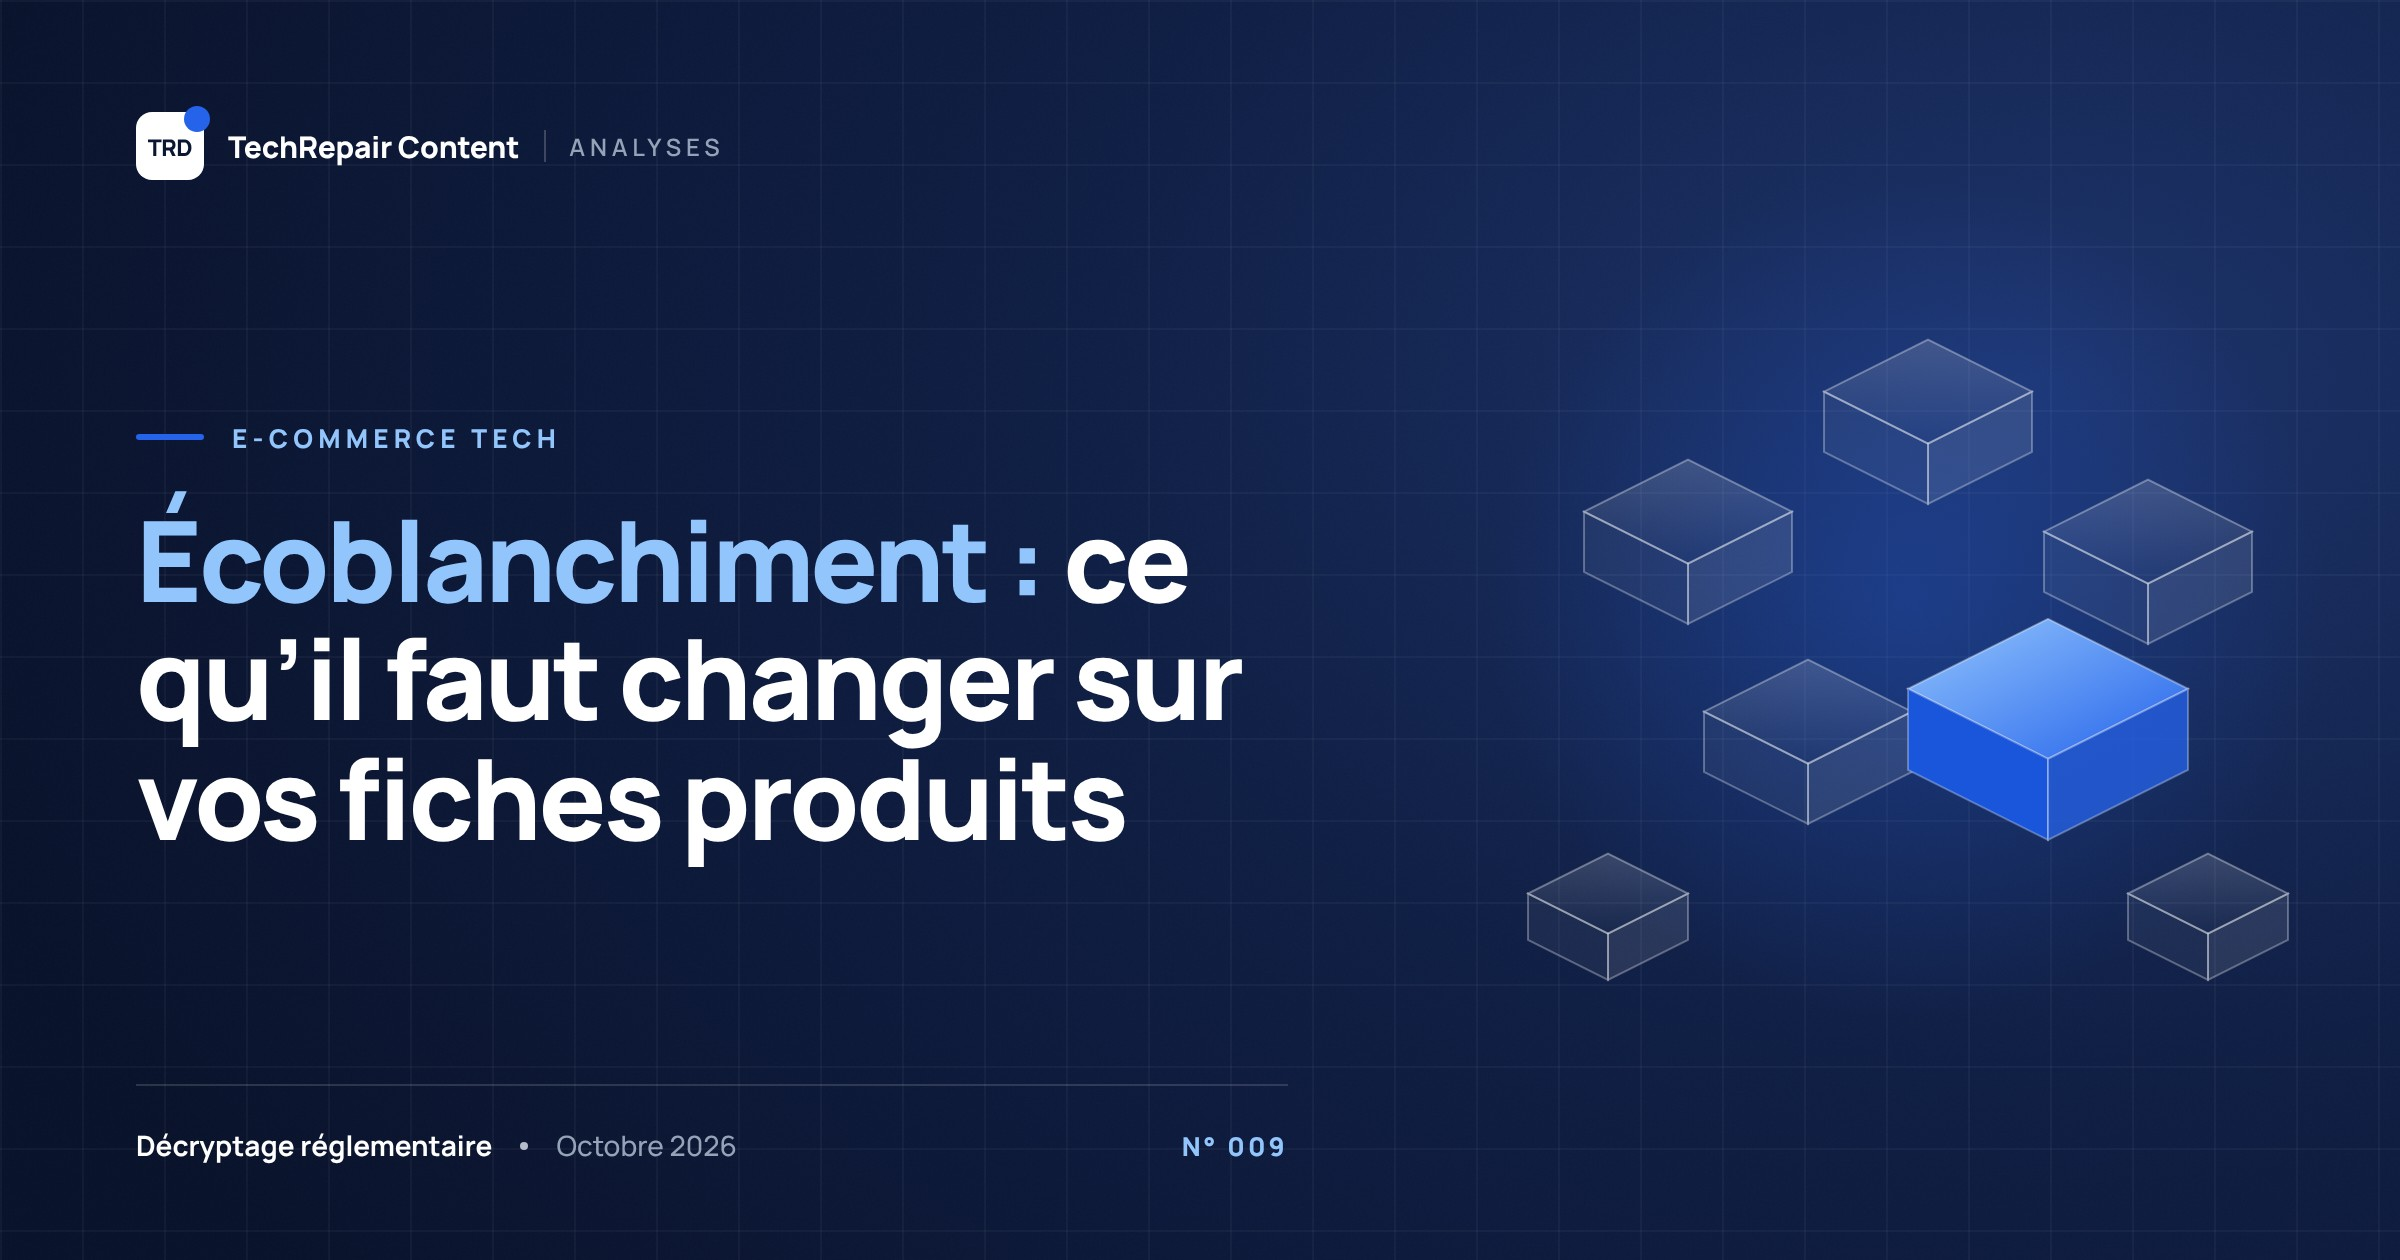
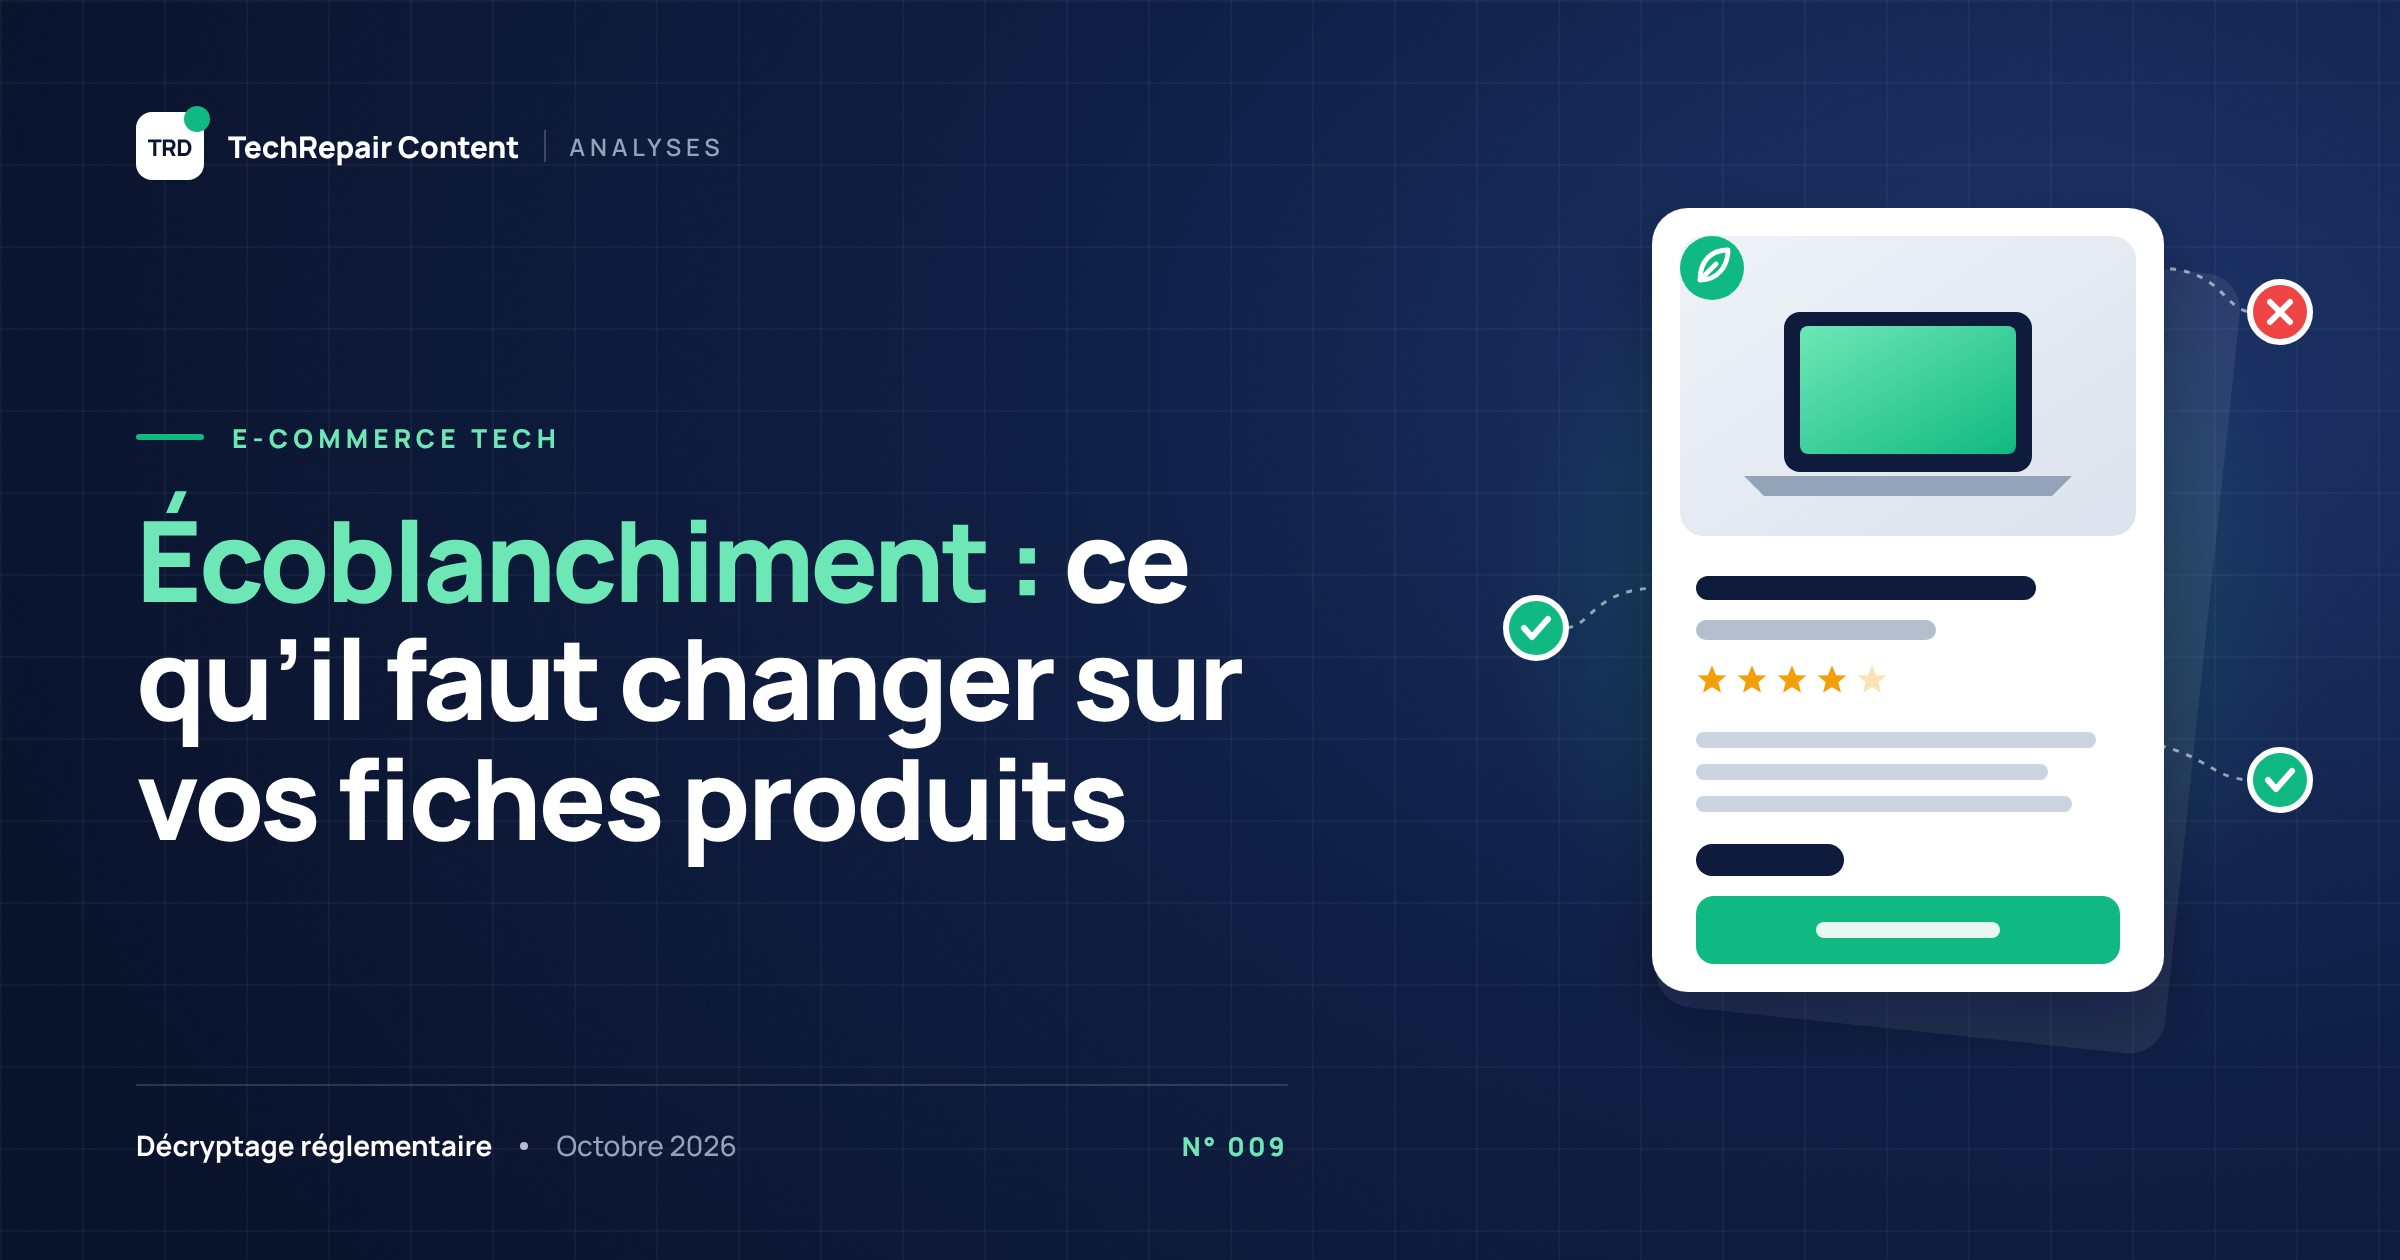
Couvertures : 4 couleurs du site, motifs liés au sujet (fiche produit, document, tableau de bord, calendrier) (#12)
Claude-Session: https://claude.ai/code/session_01HQs5be2KDUgEJapftMWrMs

diff --git a/_outils/couverture.js b/_outils/couverture.js
@@ -1,5 +1,5 @@
 // couverture.js — Couverture éditoriale haute définition (rendu HTML/SVG par Chromium).
-// Usage : node _outils/couverture.js <slug> "<titre>" <categorie> "<sur-titre>" <numero> [orange|bleu] [scission|nuit|accent|papier]
+// Usage : node _outils/couverture.js <slug> "<titre>" <categorie> "<sur-titre>" <numero> [bleu|orange|vert|violet|auto] [scission|nuit|accent|papier] [--motif=fiche-produit|document|tableau-de-bord|calendrier]
 // Produit articles/<slug>-cover.jpg en 2400x1260 (affichage 1200x630, net sur écrans Retina).
 const fs = require('fs');
 const path = require('path');
@@ -7,8 +7,12 @@ const { chromium } = require('playwright');
 
 const RACINE = path.resolve(__dirname, '..');
 const POL = path.join(__dirname, 'polices');
-const [slug, titre, cat, surTitre = 'Analyse', numero = '', accentArgBrut] = process.argv.slice(2);
-const accentArg = ['orange', 'bleu'].includes(accentArgBrut) ? accentArgBrut : undefined;
+const ARGS = process.argv.slice(2).filter(a => !a.startsWith('--'));
+const OPTS = Object.fromEntries(process.argv.slice(2).filter(a => a.startsWith('--')).map(a => a.slice(2).split('=')));
+const [slug, titre, cat, surTitre = 'Analyse', numero = '', accentArgBrut, styleArg] = ARGS;
+const COULEURS = ['bleu', 'orange', 'vert', 'violet'];
+const accentArg = COULEURS.includes(accentArgBrut) ? accentArgBrut : undefined;
+const MOTIF = OPTS.motif || '';
 if (!slug || !titre || !cat) {
   console.error('Usage : node _outils/couverture.js <slug> "<titre>" <categorie> "<sur-titre>" <numero> [orange|bleu]');
   process.exit(1);
@@ -16,13 +20,17 @@ if (!slug || !titre || !cat) {
 
 const LIBELLES = { seo: 'SEO & visibilité', saas: 'SaaS B2B', ecommerce: 'E-commerce tech',
   cyber: 'Cybersécurité', fintech: 'Fintech', rh: 'RH tech' };
-// Accent par défaut : orange pour cyber, e-commerce, RH ; bleu pour SEO, SaaS, fintech.
-const PAR_DEFAUT = { cyber: 'orange', ecommerce: 'orange', rh: 'orange', seo: 'bleu', saas: 'bleu', fintech: 'bleu' };
+// Couleurs d'accent : celles du site techrepaircontent.com (bleu, orange, vert, violet).
+// Sans choix explicite, la couleur tourne avec le numéro, décalée à chaque cycle de styles
+// pour ne jamais répéter la même combinaison style + couleur deux fois de suite.
 const ACCENTS = {
-  orange: { a: '#F97316', b: '#FDBA74', c: '#C2410C', glow: 'rgba(249,115,22,.55)' },
-  bleu:   { a: '#2563EB', b: '#93C5FD', c: '#1A56DB', glow: 'rgba(37,99,235,.6)' },
+  bleu:   { a: '#2563EB', b: '#93C5FD', c: '#1A56DB' },
+  orange: { a: '#F97316', b: '#FDBA74', c: '#C2410C' },
+  vert:   { a: '#10B981', b: '#6EE7B7', c: '#047857' },
+  violet: { a: '#7C3AED', b: '#C4B5FD', c: '#6D28D9' },
 };
-const AC = ACCENTS[accentArg || PAR_DEFAUT[cat] || 'bleu'];
+const N = parseInt(numero, 10) || 0;
+const AC = ACCENTS[accentArg || COULEURS[(N + Math.floor(N / 4)) % 4]];
 const MOIS = ['janvier','février','mars','avril','mai','juin','juillet','août','septembre','octobre','novembre','décembre'];
 const d = new Date();
 const dateTxt = `${MOIS[d.getMonth()][0].toUpperCase()}${MOIS[d.getMonth()].slice(1)} ${d.getFullYear()}`;
@@ -37,7 +45,7 @@ const rnd = () => ((graine = (graine * 1664525 + 1013904223) >>> 0) / 4294967296
 const W = 'rgba(255,255,255,', CX = 246, CY = 300;
 // Styles de couverture : ils tournent d'un article à l'autre (numéro), ou se forcent en 7e argument.
 const STYLES = ['scission', 'nuit', 'accent', 'papier'];
-const STYLE = process.argv[8] || STYLES[(parseInt(numero, 10) || 0) % STYLES.length];
+const STYLE = STYLES.includes(styleArg) ? styleArg : STYLES[N % STYLES.length];
 let INK = W, IL = AC, FOND = '#0B1633';
 if (STYLE === 'papier') { INK = 'rgba(11,22,51,'; FOND = '#F6F4EF'; }
 if (STYLE === 'accent') { IL = { a: '#FFFFFF', b: '#FFFFFF', c: '#0B1633', glow: 'rgba(255,255,255,.4)' }; FOND = AC.c; }
@@ -45,10 +53,64 @@ function illustration() {
   const defs = `
     <radialGradient id="halo" cx="50%" cy="50%" r="50%"><stop offset="0" stop-color="${IL.a}" stop-opacity=".55"/><stop offset="1" stop-color="${IL.a}" stop-opacity="0"/></radialGradient>
     <linearGradient id="acc" x1="0" y1="0" x2="1" y2="1"><stop offset="0" stop-color="${IL.b}"/><stop offset="1" stop-color="${IL.a}"/></linearGradient>
+    <linearGradient id="acc2" x1="0" y1="0" x2="1" y2="1"><stop offset="0" stop-color="${AC.b}"/><stop offset="1" stop-color="${AC.a}"/></linearGradient>
     <linearGradient id="verre" x1="0" y1="0" x2="0" y2="1"><stop offset="0" stop-color="#fff" stop-opacity=".16"/><stop offset="1" stop-color="#fff" stop-opacity=".03"/></linearGradient>
     <filter id="flou" x="-50%" y="-50%" width="200%" height="200%"><feGaussianBlur stdDeviation="6"/></filter>`;
   let g = `<circle cx="${CX}" cy="${CY}" r="210" fill="url(#halo)" opacity=".55"/>`;
-  if (cat === 'cyber') {
+  const ombre = `<filter id="ombre" x="-30%" y="-30%" width="160%" height="160%"><feDropShadow dx="0" dy="14" stdDeviation="16" flood-color="#020617" flood-opacity=".35"/></filter>`;
+  const barre = (x, y, w, h, c, o = 1) => `<rect x="${x}" y="${y}" width="${w}" height="${h}" rx="${h / 2}" fill="${c}" fill-opacity="${o}"/>`;
+  const pastille = (x, y, ok) => `<g><circle cx="${x}" cy="${y}" r="15" fill="${ok ? '#10B981' : '#EF4444'}" stroke="#fff" stroke-width="3"/>${ok
+    ? `<path d="M ${x - 6} ${y} l 4 4.5 l 8 -9" fill="none" stroke="#fff" stroke-width="3" stroke-linecap="round" stroke-linejoin="round"/>`
+    : `<path d="M ${x - 5} ${y - 5} l 10 10 M ${x + 5} ${y - 5} l -10 10" stroke="#fff" stroke-width="3" stroke-linecap="round"/>`}</g>`;
+  if (MOTIF === 'fiche-produit') {
+    // Fiche produit stylisée, annotée comme un audit : ce qui est vérifiable (✓) / ce qui ne l'est pas (✕).
+    const x = CX - 128, y = CY - 196, w = 256, h = 392;
+    g += `<defs>${ombre}<linearGradient id="visuel" x1="0" y1="0" x2="1" y2="1"><stop offset="0" stop-color="#EEF2F8"/><stop offset="1" stop-color="#DCE3EE"/></linearGradient></defs>
+      <rect x="${x + 22}" y="${y + 18}" width="${w}" height="${h}" rx="18" fill="#fff" opacity=".08" transform="rotate(6 ${CX} ${CY})"/>
+      <g filter="url(#ombre)"><rect x="${x}" y="${y}" width="${w}" height="${h}" rx="18" fill="#fff"/></g>
+      <rect x="${x + 14}" y="${y + 14}" width="${w - 28}" height="150" rx="12" fill="url(#visuel)"/>
+      <rect x="${CX - 62}" y="${y + 52}" width="124" height="80" rx="8" fill="#0F1B3D"/><rect x="${CX - 54}" y="${y + 59}" width="108" height="64" rx="4" fill="url(#acc2)"/>
+      <path d="M ${CX - 82} ${y + 134} h 164 l -10 10 h -144 z" fill="#94A3B8"/>
+      <g transform="translate(${x + 30} ${y + 30})"><circle r="16" fill="${AC.a}"/><path d="M -6 6 C -6 -4 0 -9 8 -9 C 8 -1 3 6 -6 6 Z M -6 6 L 2 -2" fill="none" stroke="#fff" stroke-width="2.4" stroke-linecap="round" stroke-linejoin="round"/></g>
+      ${barre(x + 22, y + 184, 170, 12, '#0F1B3D')}${barre(x + 22, y + 206, 120, 10, '#94A3B8', .7)}
+      <g fill="#F59E0B">${[0, 1, 2, 3, 4].map(i => `<path transform="translate(${x + 30 + i * 20} ${y + 236}) scale(.8)" d="M0,-9 L2.6,-3 L9,-2.8 L4,1.4 L5.6,8 L0,4.4 L-5.6,8 L-4,1.4 L-9,-2.8 L-2.6,-3 Z" opacity="${i < 4 ? 1 : .3}"/>`).join('')}</g>
+      ${barre(x + 22, y + 262, 200, 8, '#CBD5E1')}${barre(x + 22, y + 278, 176, 8, '#CBD5E1')}${barre(x + 22, y + 294, 188, 8, '#CBD5E1')}
+      ${barre(x + 22, y + 318, 74, 16, '#0F1B3D')}
+      <rect x="${x + 22}" y="${y + 344}" width="${w - 44}" height="34" rx="9" fill="${AC.a}"/>${barre(CX - 46, y + 357, 92, 8, '#fff', .9)}
+      <path d="M ${x + w - 4} ${y + 30} C ${x + w + 30} ${y + 30} ${x + w + 30} ${y + 52} ${x + w + 44} ${y + 52}" fill="none" stroke="${INK}.55)" stroke-width="1.5" stroke-dasharray="3 4"/>${pastille(x + w + 58, y + 52, false)}
+      <path d="M ${x + w - 30} ${y + 266} C ${x + w + 20} ${y + 266} ${x + w + 20} ${y + 286} ${x + w + 44} ${y + 286}" fill="none" stroke="${INK}.55)" stroke-width="1.5" stroke-dasharray="3 4"/>${pastille(x + w + 58, y + 286, true)}
+      <path d="M ${x + 4} ${y + 190} C ${x - 30} ${y + 190} ${x - 30} ${y + 210} ${x - 44} ${y + 210}" fill="none" stroke="${INK}.55)" stroke-width="1.5" stroke-dasharray="3 4"/>${pastille(x - 58, y + 210, true)}`;
+  } else if (MOTIF === 'document') {
+    // Texte réglementaire : pages empilées, articles surlignés, tampon.
+    const x = CX - 120, y = CY - 180, w = 240, h = 340;
+    g += `<defs>${ombre}</defs>
+      <rect x="${x + 26}" y="${y - 14}" width="${w}" height="${h}" rx="10" fill="#fff" opacity=".12" transform="rotate(5 ${CX} ${CY})"/>
+      <rect x="${x + 12}" y="${y - 6}" width="${w}" height="${h}" rx="10" fill="#fff" opacity=".25" transform="rotate(2 ${CX} ${CY})"/>
+      <g filter="url(#ombre)"><rect x="${x}" y="${y}" width="${w}" height="${h}" rx="10" fill="#fff"/></g>
+      ${barre(x + 28, y + 34, 120, 12, '#0F1B3D')}${barre(x + 28, y + 56, 80, 8, '#94A3B8')}
+      ${[0, 1, 2, 3, 4, 5, 6, 7, 8, 9].map(i => { const yy = y + 92 + i * 20; const hl = i === 2 || i === 3 || i === 7;
+        return (hl ? `<rect x="${x + 22}" y="${yy - 7}" width="${w - 44}" height="16" rx="4" fill="${AC.b}" fill-opacity=".55"/>` : '') + barre(x + 28, yy - 3, (i % 3 === 2 ? 140 : 184), 7, hl ? '#0F1B3D' : '#CBD5E1'); }).join('')}
+      <g transform="translate(${x + w - 34} ${y + h - 40}) rotate(-14)"><circle r="40" fill="none" stroke="${AC.a}" stroke-width="4"/><circle r="30" fill="none" stroke="${AC.a}" stroke-width="1.5"/><path d="M -14 0 l 9 9 l 19 -20" fill="none" stroke="${AC.a}" stroke-width="5" stroke-linecap="round" stroke-linejoin="round"/></g>`;
+  } else if (MOTIF === 'tableau-de-bord') {
+    const x = CX - 150, y = CY - 150, w = 300, h = 300;
+    let bars = '';
+    for (let i = 0; i < 7; i++) { const hh = 30 + rnd() * 90; bars += `<rect x="${x + 30 + i * 36}" y="${y + 250 - hh}" width="22" height="${hh}" rx="4" fill="${i === 5 ? AC.a : '#CBD5E1'}"/>`; }
+    g += `<defs>${ombre}</defs><g filter="url(#ombre)"><rect x="${x}" y="${y}" width="${w}" height="${h}" rx="16" fill="#fff"/></g>
+      ${barre(x + 24, y + 26, 90, 10, '#0F1B3D')}
+      <rect x="${x + 24}" y="${y + 52}" width="76" height="58" rx="10" fill="#F1F5F9"/>${barre(x + 34, y + 66, 40, 14, AC.a)}${barre(x + 34, y + 90, 50, 7, '#94A3B8')}
+      <rect x="${x + 112}" y="${y + 52}" width="76" height="58" rx="10" fill="#F1F5F9"/>${barre(x + 122, y + 66, 46, 14, '#0F1B3D')}${barre(x + 122, y + 90, 40, 7, '#94A3B8')}
+      <rect x="${x + 200}" y="${y + 52}" width="76" height="58" rx="10" fill="#F1F5F9"/>${barre(x + 210, y + 66, 34, 14, '#10B981')}${barre(x + 210, y + 90, 48, 7, '#94A3B8')}
+      ${bars}<line x1="${x + 24}" y1="${y + 252}" x2="${x + w - 24}" y2="${y + 252}" stroke="#E2E8F0"/>`;
+  } else if (MOTIF === 'calendrier') {
+    const x = CX - 140, y = CY - 140, w = 280, h = 290;
+    let cases = '';
+    for (let r = 0; r < 5; r++) for (let c = 0; c < 7; c++) { const n = r * 7 + c; const cible = n === 23;
+      cases += `<rect x="${x + 20 + c * 35}" y="${y + 90 + r * 36}" width="28" height="28" rx="7" fill="${cible ? AC.a : (n < 23 ? '#E2E8F0' : '#F8FAFC')}"/>`; }
+    g += `<defs>${ombre}</defs><g filter="url(#ombre)"><rect x="${x}" y="${y}" width="${w}" height="${h}" rx="18" fill="#fff"/></g>
+      <path d="M ${x} ${y + 18} a 18 18 0 0 1 18 -18 h ${w - 36} a 18 18 0 0 1 18 18 v 46 h -${w} z" fill="#0F1B3D"/>
+      ${barre(x + 24, y + 28, 100, 12, '#fff')}<rect x="${x + 60}" y="${y - 14}" width="12" height="30" rx="6" fill="#94A3B8"/><rect x="${x + w - 72}" y="${y - 14}" width="12" height="30" rx="6" fill="#94A3B8"/>
+      ${cases}<circle cx="${x + 20 + 2 * 35 + 14}" cy="${y + 90 + 3 * 36 + 14}" r="24" fill="none" stroke="${AC.a}" stroke-width="3" stroke-dasharray="4 4"/>`;
+  } else if (cat === 'cyber') {
     const shield = (s) => `M ${CX} ${CY - 150 * s} L ${CX + 118 * s} ${CY - 108 * s} L ${CX + 118 * s} ${CY + 6 * s} C ${CX + 118 * s} ${CY + 88 * s} ${CX + 62 * s} ${CY + 142 * s} ${CX} ${CY + 170 * s} C ${CX - 62 * s} ${CY + 142 * s} ${CX - 118 * s} ${CY + 88 * s} ${CX - 118 * s} ${CY + 6 * s} L ${CX - 118 * s} ${CY - 108 * s} Z`;
     let hex = '';
     const r = 21;

diff --git a/_outils/CONSIGNES-REDACTION.md b/_outils/CONSIGNES-REDACTION.md
@@ -21,17 +21,25 @@ commençant par `_`). Il contient tout ce qu'il faut pour produire un article pa
    page d'origine. Ne jamais inventer un chiffre, une citation, un client ou une étude.
 4. Rédiger le corps dans `_outils/brouillons/<slug>.html` et les métadonnées dans
    `_outils/brouillons/<slug>.json` (prendre `geo-etre-cite-par-chatgpt.*` comme modèle).
-5. Générer la couverture : `python3 _outils/couverture.py <slug> "<titre de couverture>" <categorie> "<sur-titre>" <numéro>`
-   (titre de couverture ≤ 70 caractères ; sur-titre : « Guide stratégique », « Analyse »,
-   « Décryptage réglementaire », « Méthode »… ; numéro = nombre d'articles dans
-   `articles.js` après ajout ; 6e argument facultatif `orange`, `bleu` ou `auto` pour
-   l'accent ; 7e argument facultatif pour le style : `scission`, `nuit`, `accent` ou
-   `papier`). Sans 7e argument, le style tourne automatiquement avec le numéro : ne pas
-   le forcer, sauf si la couverture précédente avait le même style.
-   Varier aussi l'accent d'un article à l'autre quand c'est possible.
-   Formuler le titre de couverture avec un sujet court avant les deux-points (« NIS2 : … »),
-   mis en couleur d'accent. Ouvrir l'image produite et vérifier qu'elle est parfaite :
-   titre sur 4 lignes au plus, aucune coupure de mot, illustration nette.
+5. Générer la couverture :
+   `python3 _outils/couverture.py <slug> "<titre de couverture>" <categorie> "<sur-titre>" <numéro> [couleur] [style] [--motif=…]`
+   - titre de couverture ≤ 70 caractères, sujet court avant les deux-points (« NIS2 : … »),
+     apostrophes typographiques (’) ; sur-titre : « Guide stratégique », « Analyse »,
+     « Décryptage réglementaire », « Méthode »… ; numéro = nombre d'articles dans
+     `articles.js` après ajout ;
+   - **couleur** (couleurs du site) : `bleu`, `orange`, `vert`, `violet`, ou `auto`.
+     Ne jamais reprendre la couleur de la couverture précédente ; choisir celle qui sert
+     le sujet (vert pour l'environnement, la croissance ; orange pour l'alerte, le risque ;
+     violet pour l'IA, l'innovation ; bleu pour le cadre, la méthode) ;
+   - **style** : `scission`, `nuit`, `accent`, `papier` ; sans argument, il tourne avec le
+     numéro. Ne jamais reprendre le style de la couverture précédente ;
+   - **motif** (illustration liée au sujet, à privilégier sur le motif de catégorie) :
+     `fiche-produit` (e-commerce, catalogue, fiches produits), `document` (loi, règlement,
+     norme, conformité, livre blanc), `tableau-de-bord` (chiffres, ROI, performance, SaaS),
+     `calendrier` (échéance, date d'entrée en vigueur). Sans motif, l'illustration de la
+     catégorie s'applique (bouclier, ondes, couches, courbe, réseau, colis) ;
+   - ouvrir l'image et vérifier qu'elle est parfaite : titre sur 4 lignes au plus, aucune
+     coupure de mot, illustration nette, aucun élément coupé ou superposé au texte.
 6. Assembler et indexer : `python3 _outils/publier_article.py _outils/brouillons/<slug>.json`
    (met à jour l'article, `articles.js`, `blog.html`, `sitemap.xml`, `feed.xml` et le calendrier).
 7. **Contrôle qualité obligatoire** (l'article peut être publié sans relecture humaine) :
